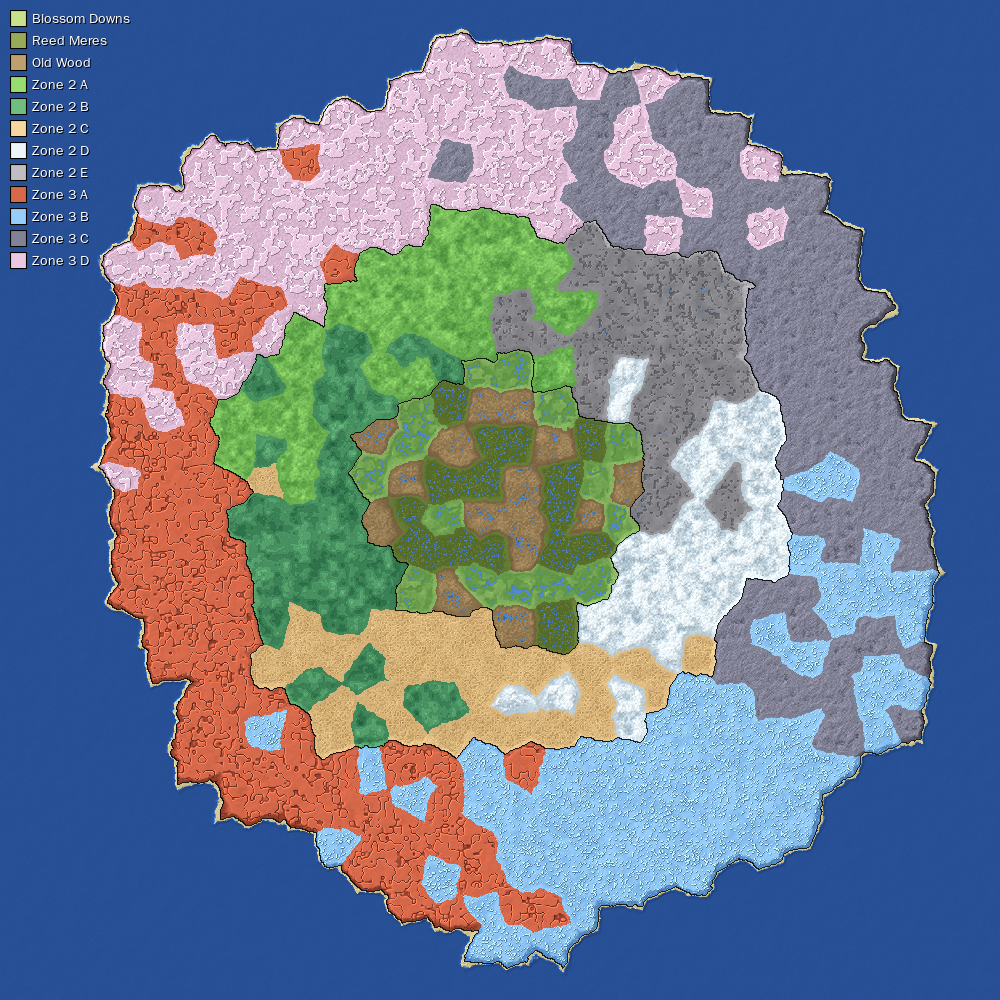
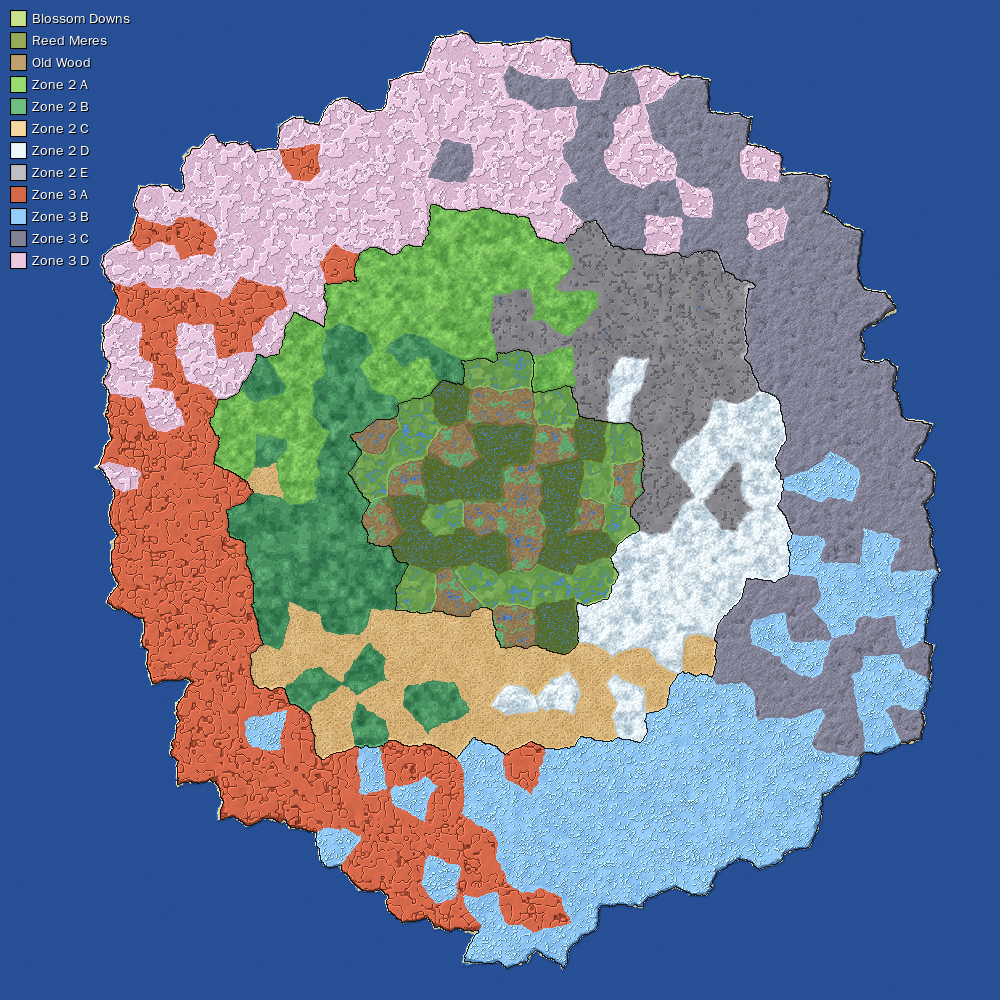
Halve the blend between biomes, add meadows to Old Wood, fix the seed of the test world
Old Wood gets larger meadows of a forest grass on the higher levels of
its swells. The grass recolours the texture of Minetest Game at run time.

Claude-Session: https://claude.ai/code/session_01CpcsHN7e256uHVrr19rdyr

diff --git a/docs/konzept.md b/docs/konzept.md
@@ -134,7 +134,7 @@ Die Formeln der drei Biome von Zone 1, in Blöcken über dem Meeresspiegel. Alle
 | --- | --- | --- | --- |
 | Blossom Downs | 12 | flache Hügel von ±10 zwischen Flüssen. Ein Fluss ist etwa 28 breit und bis 3 tief und mäandert in weiten Schwüngen. Neben ihm liegt eine ebene Aue, einen Block über dem Wasser und je Seite etwa 15 breit; erst dahinter steigt das Land langsam zu den Hügeln an. In den Flüssen liegen Kiesbänke und kleine Inseln | Gras, am Ufer Sand, am Flussgrund und auf den Bänken Kies. Nur in den obersten Lagen der Hügel, mehr als 16 über dem Wasser, Flecken aus blankem Stein und einzelne kleine Felsen |
 | Reed Meres | 1,6 | eben, das Land liegt 1 oder 2 über dem Wasser und nirgends höher. Viele kleine Mulden von 10 bis 40 Breite sinken unter den Wasserspiegel und werden Tümpel, etwa 3 tief. Zum Tümpel hin senkt sich das Land, sodass das Ufer höchstens einen Block über dem Wasser liegt | Sumpfgras mit ebenen Flecken aus grünem und gelbem Sumpfmoos, am Ufer und im Wasser Torf |
-| Old Wood | 30 | lange Wellen von ±10, darauf enge Kuppen und Mulden von ±8 im Abstand von etwa 50. Dazu Waldseen über dem Meeresspiegel | Nadelstreu, dazu Findlinge aus Stein, etwa ein Drittel der Blöcke bemoost |
+| Old Wood | 30 | lange Wellen von ±10, darauf enge Kuppen und Mulden von ±8 im Abstand von etwa 50. Dazu Waldseen über dem Meeresspiegel | Nadelstreu, auf den höheren Lagen der Wellen größere Wiesen aus Waldgras, dazu Findlinge aus Stein, etwa ein Drittel der Blöcke bemoost |
 
 Bis auf die Waldseen steht alles Wasser des Prototyps auf Meereshöhe, auch die Flüsse von Blossom Downs. Deshalb liegen sie alle gleich hoch, und die Hügel steigen von ihnen aus an. Zur Biomgrenze hin laufen sie aus, weil sich dort die Höhe mit der des Nachbarn mischt. Gewässer, die einen Hang hinabfließen oder Biome verbinden, gehören zu den Flüssen in G3.
 
@@ -144,6 +144,8 @@ Die Waldseen von Old Wood entstehen aus einem eigenen Wasserspiegel des Bioms, 2
 
 Jedes Biom hat im Prototyp eine Deckschicht aus einem Block, dazu je einen für Ufer und Gewässergrund. Die Höhenformel eines Bioms kann Stellen markieren, die an der Wasserlinie einen anderen Block bekommen; so entstehen die Kiesbänke. Findlinge sind eigene Körper aus anderen Blöcken, und Flecken ersetzen die Deckschicht an verstreuten Stellen, ohne die Höhe zu ändern. Jedes Biom nennt, ob es Findlinge und Flecken hat, wie häufig und wie groß, und ab welcher Höhe über dem Wasser.
 
+Die Wiesen von Old Wood liegen dort, wo die langen Wellen hoch stehen, und sind meist 100 bis 250 Blöcke breit. Ihr Block ist Waldgras: das Gras von Minetest Game in einem dunkleren, kühleren Grün. Die Farbe entsteht erst im Spiel aus dessen Textur, eine fremde Datei ist dafür nicht übernommen. Dass es Wiesen gibt, hat der Autor am 22.11.2026 entschieden; der Farbton ist ein Vorschlag von Claude, und der Rand der Wiesen ist noch eine harte Linie.
+
 Reed Meres hat die ersten eigenen Blöcke von Wanderlore: Sumpfgras, zwei Sumpfmoose und Torf, mit Texturen aus Extra Biomes. Die Farbe der Moose ist gegenüber der Vorlage dunkler und kräftiger, damit sich die Flecken vom Gras abheben. Der Torf ist ein fester Block. Das Wasser bleibt das von Minetest Game. Ein eigenes Sumpfwasser kommt frühestens mit dem Bewuchs.
 
 ### Übergänge
@@ -151,8 +153,8 @@ Reed Meres hat die ersten eigenen Blöcke von Wanderlore: Sumpfgras, zwei Sumpfm
 - **Zwischen Biomen derselben Zone** werden die Grundhöhen weich gemischt, und die Form blendet zur Grenze hin aus.
 - **An Zonengrenzen liegt eine sichtbare Schwelle:** zwischen Zone 1 und 2 ein Fluss, zwischen Zone 2 und 3 ein Höhenzug.
 - **Zwischen Varianten desselben Bioms** gleiten die Regler der Formel ineinander.
-- **Die Mischzone ist schmal**, zum Start 120 Blöcke je Seite. Das Mischen der Grundhöhen und das Ausblenden der Form sind seit G1 gebaut.
-- **Oberfläche und Bewuchs** wechseln gesprenkelt über etwa 40 Blöcke. Für die Oberfläche ist das seit G1 gebaut: Nahe der Grenze trägt eine Stelle mal die Oberfläche des einen, mal die des anderen Bioms, teils Block für Block, teils in kleinen Gruppen.
+- **Die Mischzone ist schmal**, 60 Blöcke je Seite. Mit 120 war der Übergang dem Autor zu breit; er hat ihn am 22.11.2026 halbiert. Das Mischen der Grundhöhen und das Ausblenden der Form sind seit G1 gebaut.
+- **Oberfläche und Bewuchs** wechseln gesprenkelt über etwa 20 Blöcke; die Breite hängt an der Mischzone und hat sich mit ihr halbiert. Für die Oberfläche ist das seit G1 gebaut: Nahe der Grenze trägt eine Stelle mal die Oberfläche des einen, mal die des anderen Bioms, teils Block für Block, teils in kleinen Gruppen.
 - **Die Grenzlinie ist unregelmäßig.** Eine zweite, feine Verschiebung von bis zu 24 Blöcken gibt ihr Buchten und Zungen.
 - **Küste:** je Biom Strand oder Steilküste.
 

diff --git a/CLAUDE.md b/CLAUDE.md
@@ -21,9 +21,9 @@ Verwandte Repositories:
 
 ## Stand
 
-Stand 22.11.2026: Das Konzept steht, M0 und M1 sind gebaut, und von M2, der Weltkarte, der erste von drei Teilen. Das Modpack unter `modpack/` enthält nur `wl_world`. Der Mod erzeugt einen Kontinent aus drei Zonen und teilt die Biome auf dessen Zellen aus: in Zone 1 die drei ausgearbeiteten Biome mit eigener Landschaftsform, Oberfläche und Übergängen, in Zone 2 und 3 neun Platzhalter (`zone2_a` bis `zone3_d`), dahinter ein vorläufiges Meer. Bewuchs, Erze und Höhlen gibt es noch nicht. Er bringt die ersten eigenen Blöcke mit, vier Sumpfblöcke für Reed Meres in `nodes.lua`, mit sieben Texturen aus Extra Biomes. Es fehlen von M2 noch der zweite Teil, Meer und Inseln, und der dritte, die Schwellen an den Zonengrenzen.
+Stand 22.11.2026: Das Konzept steht, M0 und M1 sind gebaut, und von M2, der Weltkarte, der erste von drei Teilen. Das Modpack unter `modpack/` enthält nur `wl_world`. Der Mod erzeugt einen Kontinent aus drei Zonen und teilt die Biome auf dessen Zellen aus: in Zone 1 die drei ausgearbeiteten Biome mit eigener Landschaftsform, Oberfläche und Übergängen, in Zone 2 und 3 neun Platzhalter (`zone2_a` bis `zone3_d`), dahinter ein vorläufiges Meer. Bewuchs, Erze und Höhlen gibt es noch nicht. Er bringt die ersten eigenen Blöcke mit: vier Sumpfblöcke für Reed Meres in `nodes.lua`, mit sieben Texturen aus Extra Biomes, und Waldgras für Old Wood, das die Grastextur von Minetest Game im Spiel umfärbt. Es fehlen von M2 noch der zweite Teil, Meer und Inseln, und der dritte, die Schwellen an den Zonengrenzen.
 
-- `scripts/setup.sh` richtet unter `.dev/` Spiel, Modpack und Testwelt ein.
+- `scripts/setup.sh` richtet unter `.dev/` Spiel, Modpack und Testwelt ein. Die Testwelt hat den festen Startwert `wanderlore`, denselben wie `map.sh` und `shots.sh`; so passen Karten, Bilder und Koordinaten zur Welt des Autors.
 - `scripts/check.sh` startet einen Server ohne Bildschirm auf frischer Welt, lässt den Generator die Portionen um den Startpunkt erzeugen und scheitert bei Fehlern oder Warnungen im Log. Es läuft vor jedem Pull Request.
 - `scripts/measure.sh` misst die Zeit des Generators je Portion, `scripts/measure.sh v7` zum Vergleich Luantis Generator v7. Nach jeder größeren Änderung am Generator neu messen und die Zahlen im Arbeitsplan nachtragen.
 - `scripts/shots.sh [text]` macht Screenshots aller Biome und ihrer Grenzen nach `.dev/shots/`, mit einem Text nur die Ansichten, deren Name ihn enthält, etwa `_above` oder `zone2_b`. Eine Ansicht dauert in der Cloud knapp eine Minute; alle zusammen sind es seit den Platzhaltern weit über fünfzig.
@@ -134,6 +134,8 @@ Stand 22.11.2026, für den Einstieg in M0 und M1:
 - Zellgröße 1.000 statt 1.600, als Versuch: Mit 1.600 wirkten die Biome sehr groß.
 - Reed Meres: sehr flach, das Land liegt nur 1 oder 2 über dem Wasser. Sumpfgras als Deckschicht, Torf (der trockene, Nummer 6 der Tafel) am Ufer und am Gewässergrund, Wasser aus Minetest Game, dazu ebene Flecken aus grünem und gelbem Sumpfmoos, deren Farbe gegenüber der Vorlage dunkler und kräftiger ist. Die Werte hat der Autor an einer Tafel gewählt; sie stehen in `docs/medien.md`.
 - Biomübergänge sollen nicht künstlich wirken: keine gerade Linie, kein harter Wechsel der Oberfläche. Gebaut sind eine unregelmäßige Grenzlinie und ein gesprenkelter Wechsel der Oberfläche; ob das dem Autor reicht, ist offen.
+- Der Übergang zwischen zwei Biomen war mit 120 Blöcken je Seite zu breit und ist auf 60 halbiert.
+- Old Wood hat auf den höheren Lagen größere Wiesen aus einem eigenen Waldgras. Dessen Farbton ist ein Vorschlag von Claude und vom Autor noch nicht bestätigt.
 - M1 bekommt keinen zweiten Teil mit Bewuchs. Der Bewuchs kommt mit M4.
 - M2 wird in drei Pull Requests gebaut: Zonen und Austeilen, dann Meer und Inseln, dann Schwellen an den Zonengrenzen.
 - Die Biome der Zonen 2 und 3 und der Inseln sind in M2 Platzhalter aus Blöcken von Minetest Game. Der Autor arbeitet die echten Biome danach einzeln aus.
